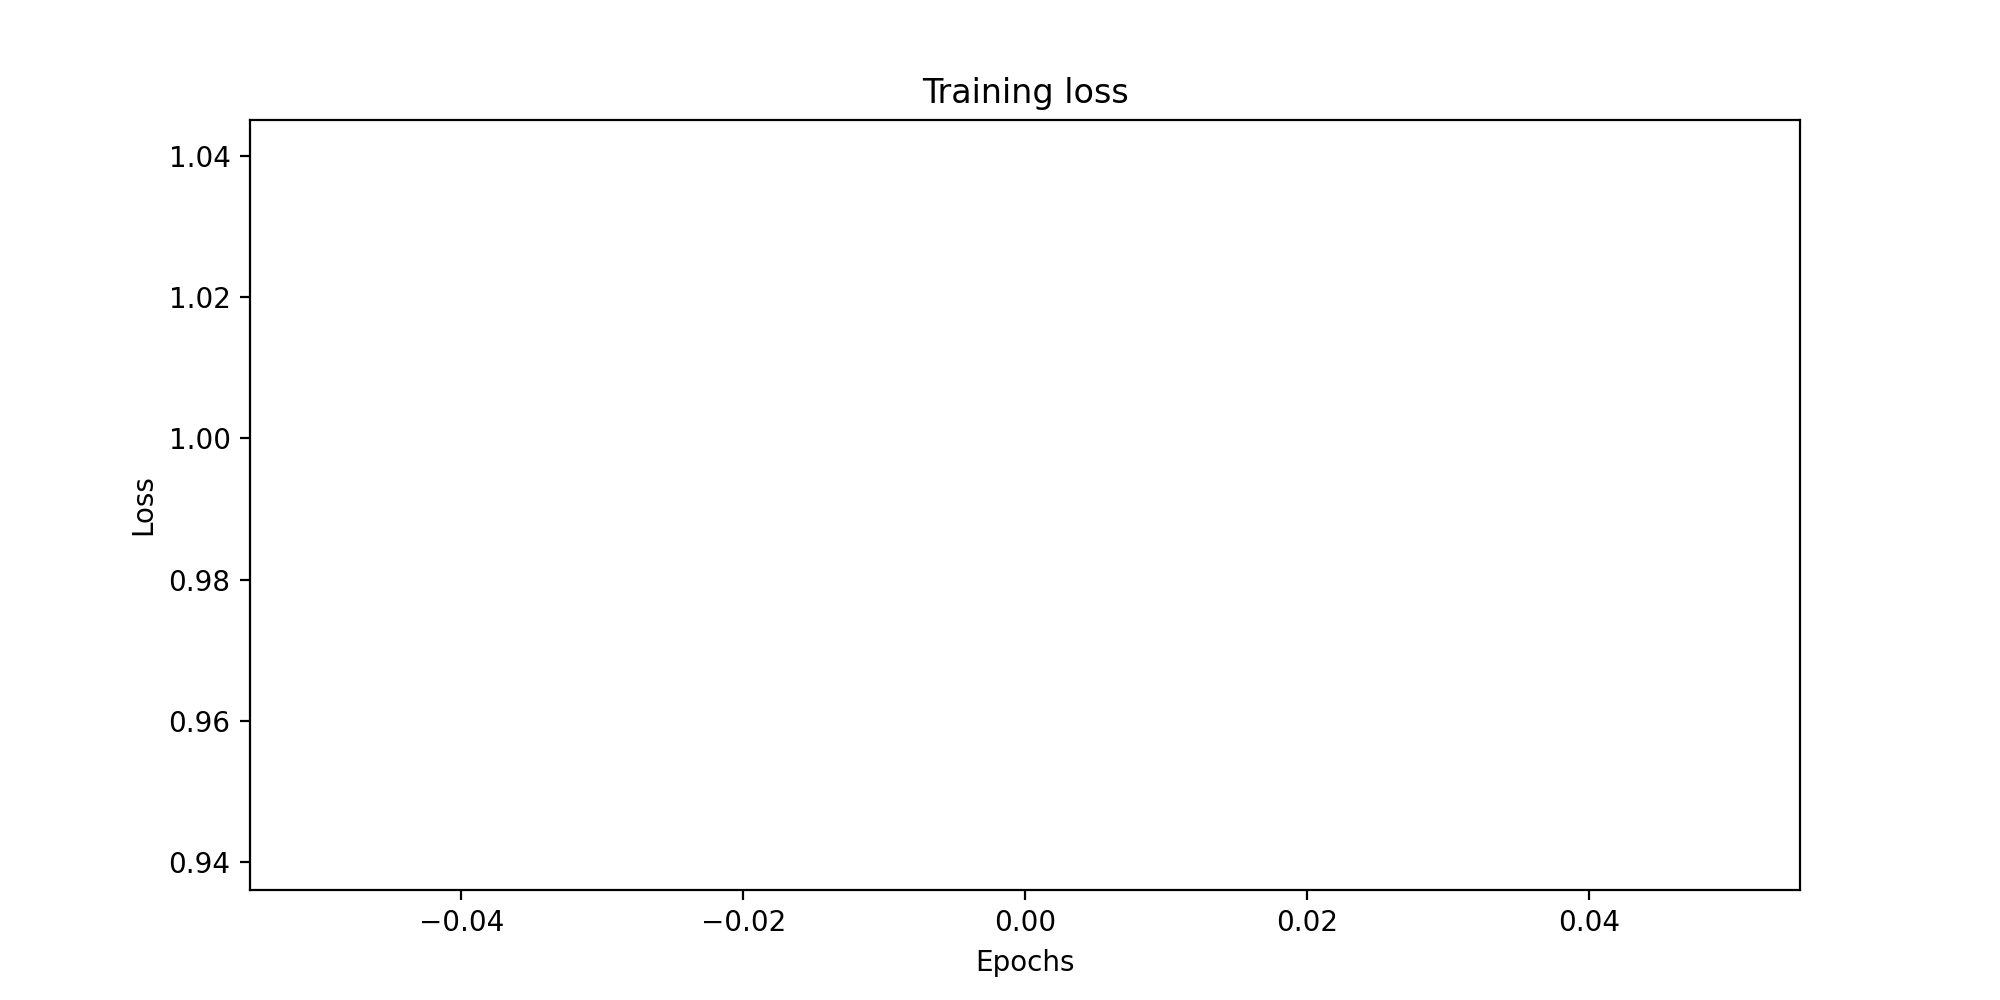
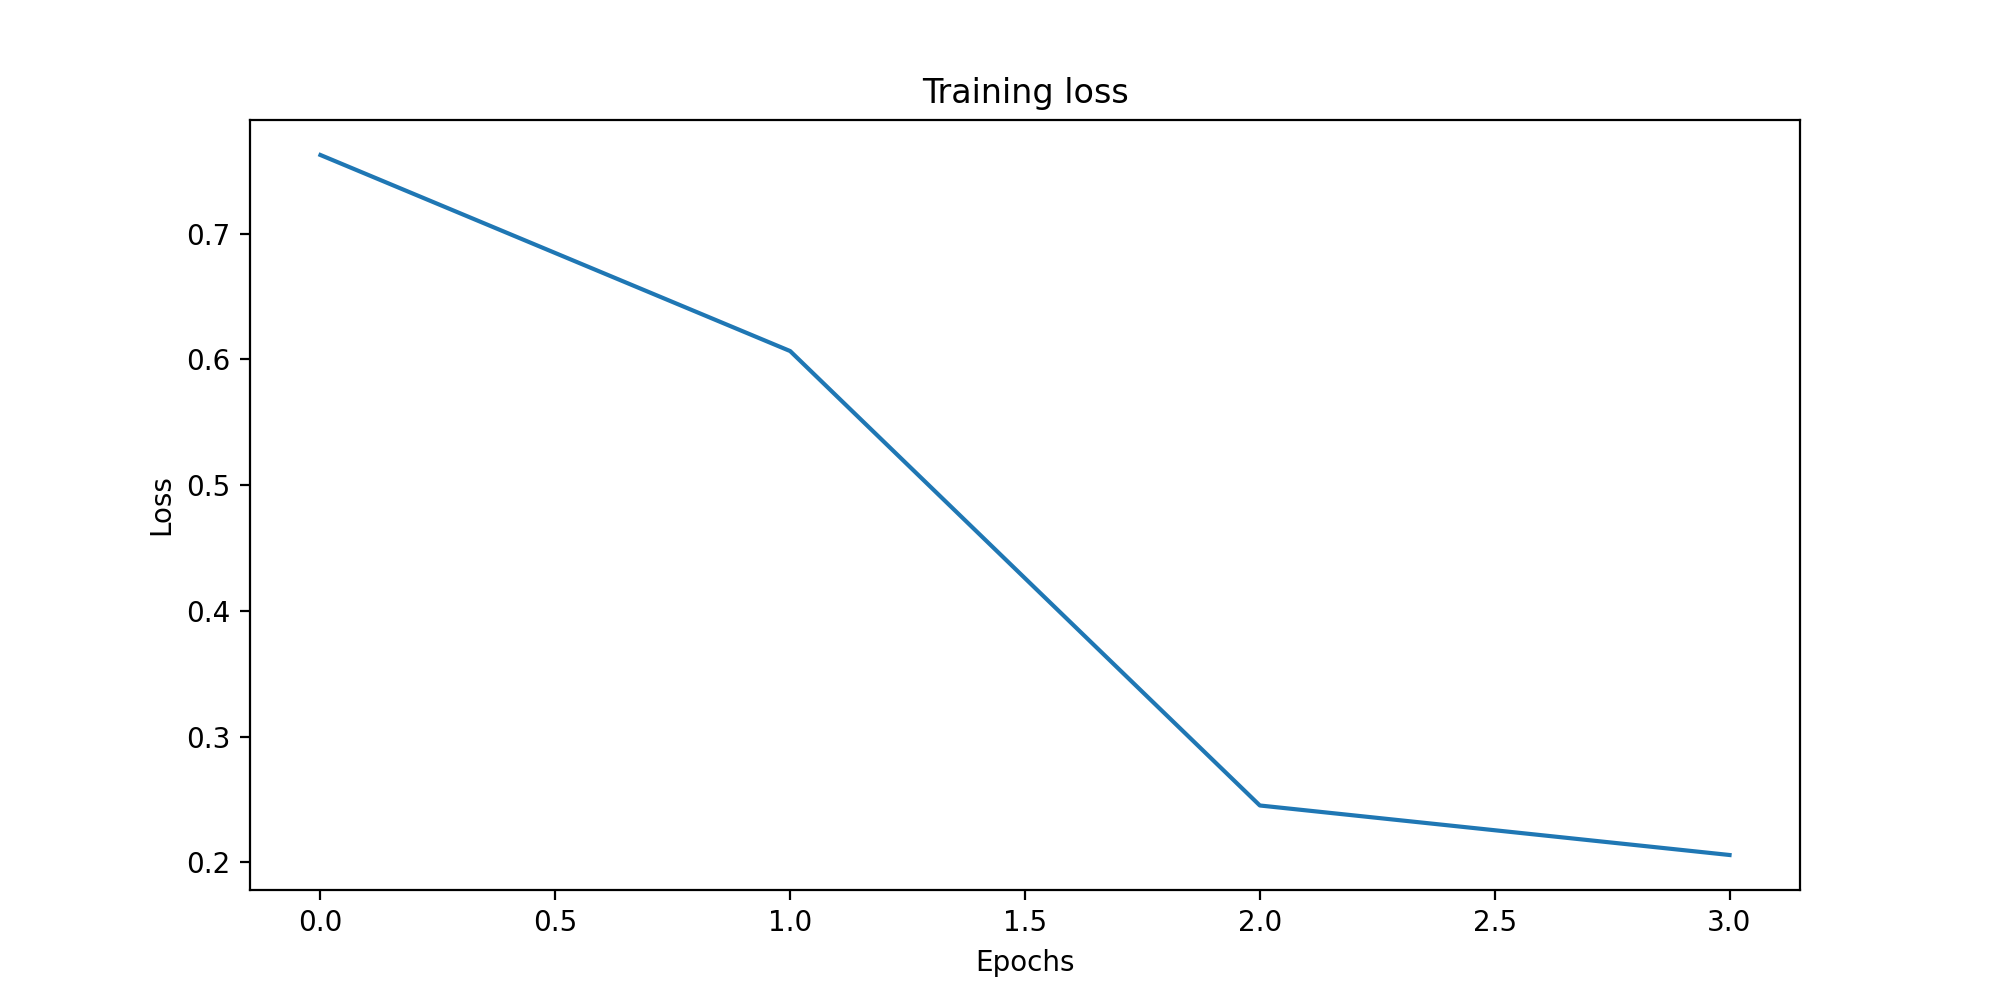
updating loss function

diff --git a/src/models/train_model.py b/src/models/train_model.py
@@ -1,10 +1,8 @@
-from transformers import AutoModelForSequenceClassification, AutoConfig, AutoTokenizer
 import click
 import matplotlib.pyplot as plt
 import torch
 from torch import nn
 from tqdm import tqdm
-from typing import Callable, Tuple, Union, Optional, List
 from scipy.special import softmax
 import numpy as np
 
@@ -23,7 +21,7 @@ def train(lr:float, epochs:int)->None:
     """main training function for the model, calls the subsequent training function"""
     
     model = SentimentModel()
-    train_set = make_dataloader(filepath="C:/Users/Lenovo/Documents/02476_mlops/data/raw/train.csv")
+    train_set = make_dataloader(filepath="data/raw/train.csv")
     criterion = nn.CrossEntropyLoss()
     optimizer = torch.optim.Adam(model.parameters(), lr=lr)
 
@@ -44,16 +42,16 @@ def train(lr:float, epochs:int)->None:
             str(cum_loss/len(train_set)))
         training_loss.append(cum_loss / len(train_set))
 
-    torch.save(model.state_dict(), "C:/Users/Lenovo/Documents/02476_mlops/models/checkpoint.pth")
+    torch.save(model.state_dict(), "models/checkpoint.pth")
     print("saved to model/checkpoint.pth")
 
     plt.figure(figsize=(10, 5))
-    plt.plot(loss.detach().numpy())
+    plt.plot(training_loss)
     print('plotting')
     plt.title("Training loss")
     plt.xlabel("Epochs")
     plt.ylabel("Loss")
-    plt.savefig("C:/Users/Lenovo/Documents/02476_mlops/reports/figures/loss.png", dpi=200)
+    plt.savefig("reports/figures/loss.png", dpi=200)
 
 
 cli.add_command(train)
